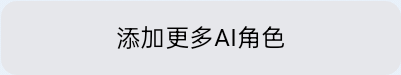
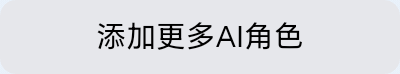
fix(swan): 回归第三轮修复——顶Tab换选中态锚/搜索入口适配/OCR容错
- _TOP_TAB_ANCHORS 五键换 *_SEL 选中态图(Tab内容布局改版不再牵连导航断言),5常量登记+PNG入库(草稿)
- search(entry=home) 适配新构建:搜索条在推荐Tab,OCR'跨平台搜索音乐'兜底
- select_device OCR l/I/1 归一化容错(实测 M300MKII→M300MKIl)
- 3张内容锚重截覆盖转正(AI入口/可视音箱提示/电台搜索条,全1.0)

Changed region(s): [[0.24, 0.2973, 0.78, 0.6757]]

diff --git a/utils/aw/business/swan.py b/utils/aw/business/swan.py
@@ -16,15 +16,18 @@ from image.image_name_mapping import (
     SWAN_DEVICE_SHEET_CHECKED,
     SWAN_DEVICE_SHEET_TITLE,
     SWAN_FAVORITE_PLAY_ALL,
-    SWAN_HOME_AI_ADD_ROLE,
     SWAN_HOME_MUSIC_SEARCH_BAR,
     SWAN_HOME_RADIO_SEARCH_BAR,
     SWAN_HOME_TAB_AI,
+    SWAN_HOME_TAB_AI_SEL,
     SWAN_HOME_TAB_MUSIC,
+    SWAN_HOME_TAB_MUSIC_SEL,
     SWAN_HOME_TAB_RADIO,
+    SWAN_HOME_TAB_RADIO_SEL,
     SWAN_HOME_TAB_RECOMMEND,
+    SWAN_HOME_TAB_RECOMMEND_SEL,
     SWAN_HOME_TAB_VISION,
-    SWAN_HOME_VISION_UNBOUND_HINT,
+    SWAN_HOME_TAB_VISION_SEL,
     SWAN_HISTORY_TOPBAR,
     SWAN_ME_FAVORITES_ROW,
     SWAN_PD_FAV_OFF,
@@ -323,12 +326,19 @@ class SwanBusiness(CommonBusinessMixin, FlutterBaseAW):
     # 设备页卡片：设备名行到状态行允许的最大纵向跨度（720x1600 口径，待真机校准）
     _CARD_BODY_SPAN = 300
 
+    # OCR 设备名易混字符归一化映射（verify R2 实测：「HiVi M300MKII」被
+    # 读成「HiVi M300MKIl」——罗马数字 II 与小写 l 同形，name in text
+    # 精确匹配失败）。兜底比对时把两侧 l/I/1 统一映射到 1 再匹配。
+    _OCR_CONFUSABLE_TRANS = str.maketrans({"l": "1", "I": "1", "1": "1"})
+
     _TIME_RE = re.compile(r"(\d{1,2}):(\d{2})")
 
     def select_device(self, name: str, via: str = "card") -> None:
         """切换输出设备（A12，回归用例 11-12）。
 
-        via="card"：设备页 OCR 定位目标设备名所在卡片，点卡片状态行
+        via="card"：设备页 OCR 定位目标设备名所在卡片（设备名精确包含
+        优先，失配时两侧做 l/I/1 易混字符归一化兜底再匹配，见
+        _OCR_CONFUSABLE_TRANS 注），点卡片状态行
         （「连接良好」行）。⚠ 不点设备名本身——知识库实测设备名节点是
         设置入口（wifi_device_settings_<UUID>），内含删除设备风险。
         收尾断言卡片选中态 [图]。
@@ -343,7 +353,22 @@ class SwanBusiness(CommonBusinessMixin, FlutterBaseAW):
         assert via in ("card", "player"), "via 仅支持 card / player"
         if via == "card":
             items = self.ocr_scan_page()
+            # 设备名比对：优先 OCR 文本精确包含；失配时两侧做 l/I/1 易混
+            # 字符归一化兜底（实测案例：OCR 把「HiVi M300MKII」读成
+            # 「HiVi M300MKIl」，II→Il，「M300MKII」归一化为「M300MK11」
+            # 后命中）。状态行「连接良好」定位逻辑不受归一化影响。
             name_item = next((i for i in items if name in i["text"]), None)
+            if name_item is None:
+                norm_name = name.translate(self._OCR_CONFUSABLE_TRANS)
+                name_item = next(
+                    (i for i in items
+                     if norm_name in i["text"].translate(self._OCR_CONFUSABLE_TRANS)),
+                    None,
+                )
+                if name_item is not None:
+                    logger.info(
+                        "select_device: 设备名 %r 精确匹配失败，"
+                        "l/I/1 归一化后命中 OCR 文本 %r", name, name_item["text"])
             assert name_item is not None, f"设备页 OCR 未找到设备名 {name!r}"
             status_item = next(
                 (i for i in items
@@ -673,13 +698,17 @@ class SwanBusiness(CommonBusinessMixin, FlutterBaseAW):
         "电台": SWAN_HOME_TAB_RADIO,
     }
 
-    # 顶 Tab 生效后的页面锚点（A22，均已转正图；可视音箱为未绑定态锚点，
-    # rig 未绑定可视音箱时稳定，绑定后需换锚点）
+    # 顶 Tab 选中态锚点（verify R2 换锚：切换后统一断言「该 Tab 处于选中
+    # 态」，不再依赖各 Tab 内容布局——新构建音乐 Tab 改歌单流后原「音乐
+    # 搜索条」内容锚点已失效，且内容锚点各页一个样、选中态高亮图跨机更
+    # 稳健。5 张选中态图为草稿，verify 转正后 image_name_mapping 登记处
+    # 改正式路径）
     _TOP_TAB_ANCHORS = {
-        "音乐": SWAN_HOME_MUSIC_SEARCH_BAR,
-        "AI": SWAN_HOME_AI_ADD_ROLE,
-        "可视音箱": SWAN_HOME_VISION_UNBOUND_HINT,
-        "电台": SWAN_HOME_RADIO_SEARCH_BAR,
+        "推荐": SWAN_HOME_TAB_RECOMMEND_SEL,
+        "音乐": SWAN_HOME_TAB_MUSIC_SEL,
+        "AI": SWAN_HOME_TAB_AI_SEL,
+        "可视音箱": SWAN_HOME_TAB_VISION_SEL,
+        "电台": SWAN_HOME_TAB_RADIO_SEL,
     }
 
     def _home_anchor_visible(self, timeout: float = 1.0) -> bool:
@@ -755,8 +784,8 @@ class SwanBusiness(CommonBusinessMixin, FlutterBaseAW):
         目标 Tab 的未选中态图不可见即视为已停在该 Tab（选中态图标不匹配
         未选中态模板，同 tests/flutter/swan_regression_common.py
         _stay_on_recommend_tab 的判定口径）。
-        到位断言：音乐/AI/可视音箱/电台 用各自页面锚点 [图]；推荐 用
-        「其余 4 个未选中态 Tab 图任一可见」——推荐页两种布局轮换下均稳定。
+        到位断言：目标 Tab 选中态图 [图]（verify R2 换锚，五 Tab 同一口径，
+        不依赖各 Tab 内容布局，见 _TOP_TAB_ANCHORS 注）。
         """
         template = self._TOP_TAB_TEMPLATES.get(name)
         if template is None:
@@ -768,15 +797,6 @@ class SwanBusiness(CommonBusinessMixin, FlutterBaseAW):
             self.click_image(template, timeout=5)
         else:
             logger.info("go_top_tab: 顶 Tab「%s」未选中态图不可见，视为已停在该 Tab", name)
-        if name == "推荐":
-            deadline = time.monotonic() + timeout
-            while time.monotonic() < deadline:
-                for tpl in (SWAN_HOME_TAB_MUSIC, SWAN_HOME_TAB_RADIO,
-                            SWAN_HOME_TAB_AI, SWAN_HOME_TAB_VISION):
-                    if self.find_image(tpl, timeout=2) is not None:
-                        return
-                self.sleep(0.5)
-            assert False, f"切顶 Tab「推荐」后 {timeout}s 内未见其余顶 Tab 未选中态图"
         self.image_exists(self._TOP_TAB_ANCHORS[name], timeout=timeout)
 
     def open_home_card(self, name: str, timeout: float = 15.0) -> None:
@@ -1036,18 +1056,26 @@ class SwanBusiness(CommonBusinessMixin, FlutterBaseAW):
     # （adb 输入限制，中文待 IME 方案，属框架层待用户决策）。
     # =================================================================
 
-    # 搜索入口 -> 搜索条图（均已转正；功能地图 8 处入口中仅音乐/电台两处
-    # 真机验证过，平台域入口待 explorer 验证后扩展）
+    # 搜索入口 -> 搜索条图（均已转正；功能地图 8 处入口中仅推荐/电台两处
+    # 真机验证过，平台域入口待 explorer 验证后扩展。home 条 PNG 文件名
+    # 沿用历史「音乐Tab_搜索条」，物理内容已同名重截为推荐 Tab 搜索条，
+    # 见 image_name_mapping.py 注）
     _SEARCH_ENTRY_BARS = {
-        "home": SWAN_HOME_MUSIC_SEARCH_BAR,    # 音乐 Tab「跨平台搜索音乐」
+        "home": SWAN_HOME_MUSIC_SEARCH_BAR,    # 首页推荐 Tab「跨平台搜索音乐」
         "radio": SWAN_HOME_RADIO_SEARCH_BAR,   # 电台 Tab「搜索电台」
     }
 
     def search(self, keyword: str, entry: str = "home", timeout: float = 15.0) -> None:
         """全域搜索（A33，回归用例69-72前半）。
 
-        entry="home"/"radio" 对应音乐/电台 Tab 搜索条 [图]（已验证的两处
-        入口）。流程：顶 Tab 切换 -> 搜索条 [图] 进搜索输入页 -> OCR hint
+        entry="home"/"radio" 对应推荐/电台 Tab 搜索条（已验证的两处入口）。
+        新构建（verify R2 拍板口径）：音乐 Tab 已改为歌单流、搜索条回归
+        首页默认推荐 Tab，entry="home" 跟随 App 现状切推荐 Tab 后点搜索条
+        （非语义变更；原「go_top_tab("音乐") + 音乐 Tab 搜索条」链路废弃）。
+        推荐 Tab 有完整/紧凑两种服务端布局轮换（知识库 swan_首页），紧凑
+        布局下搜索条图可能不可见，此时用 OCR hint「跨平台搜索音乐」兜底
+        定位。
+        流程：顶 Tab 切换 -> 搜索条进搜索输入页 -> OCR hint
         「搜索歌曲或艺术家等」定位输入框并点击聚焦 -> adb 输入关键词 ->
         搜索按钮 [图] 提交（用图不用 OCR 顶栏「搜索」，规避与自定义 T9
         键盘「搜索」键同名歧义，见知识库搜索 flow 风险注）。
@@ -1059,8 +1087,16 @@ class SwanBusiness(CommonBusinessMixin, FlutterBaseAW):
             raise ValueError(
                 f"搜索入口仅支持 {sorted(self._SEARCH_ENTRY_BARS)}"
                 f"（平台域入口 KB 未验证，暂不支持），收到 {entry!r}")
-        self.go_top_tab("音乐" if entry == "home" else "电台")
-        self.click_image(bar, timeout=10)
+        if entry == "home":
+            self.go_top_tab("推荐")   # 新构建：搜索条在推荐 Tab，音乐 Tab 已改歌单流
+            if self.find_image(bar, timeout=3) is not None:
+                self.click_image(bar, timeout=10)
+            else:
+                # 紧凑布局轮换下搜索条图不可见：OCR hint 文案兜底定位
+                self.click_text("跨平台搜索音乐", timeout=10)
+        else:
+            self.go_top_tab("电台")
+            self.click_image(bar, timeout=10)
         self.text_exists("搜索歌曲或艺术家等", timeout=timeout)   # 搜索输入页生效
         self.click_text("搜索歌曲或艺术家等", timeout=5)          # 点击输入框聚焦
         self.input_text(keyword)

diff --git a/image/image_name_mapping.py b/image/image_name_mapping.py
@@ -156,6 +156,9 @@ SWAN_HOME_TAB_AI = image_path("swan_首页_AITab按钮.png", platform="flutter")
 SWAN_HOME_TAB_VISION = image_path("swan_首页_可视音箱Tab按钮.png", platform="flutter")
 
 # --- 首页各顶 Tab 内容区元素 ---
+# ⚠ SWAN_HOME_MUSIC_SEARCH_BAR 文件名沿用历史（原音乐 Tab 搜索条）；
+# verify R2 起其 PNG 已同名重截为推荐 Tab 完整布局的搜索条（新构建音乐
+# Tab 改歌单流，搜索条回归推荐 Tab），常量名不改、语义见 swan.py search()
 SWAN_HOME_MUSIC_SEARCH_BAR = image_path("swan_首页音乐Tab_搜索条.png", platform="flutter")
 SWAN_HOME_RADIO_SEARCH_BAR = image_path("swan_首页电台Tab_搜索条.png", platform="flutter")
 SWAN_HOME_AI_ADD_ROLE = image_path("swan_首页AITab_添加角色入口.png", platform="flutter")
@@ -330,6 +333,23 @@ SWAN_PLAYER_FAV_BTN = image_path("swan_播放页_收藏按钮.png", platform="fl
 SWAN_PD_ROW_FAV_BTN = image_path("swan_歌单详情页_歌曲行收藏图标.png", platform="flutter", draft=True)  # 歌单详情页歌曲行收藏图标（source="playlist_page"）
 
 
+# =====================================================================
+# Swan (Flutter) 回归第三轮修复·首页顶 Tab 选中态锚点（verify R2）
+# 2026-09-24 aw-codegen 按 aw-verify 第二轮报告登记，PNG 由 aw-element
+# 并行截取（A 组 5 张新名）。go_top_tab 到位断言统一换锚为「目标 Tab
+# 选中态」图：切换后断言该 Tab 处于选中态，不再依赖各 Tab 内容布局
+# （新构建音乐 Tab 改歌单流后原「音乐搜索条」内容锚点已失效），选中态
+# 高亮样式跨机也更稳健。verify 转正后本段 draft=True 改正式路径。
+# =====================================================================
+
+# --- 首页顶 Tab 选中态（go_top_tab 到位锚点；截选中态高亮样式，勿含邻 Tab 与内容区） ---
+SWAN_HOME_TAB_RECOMMEND_SEL = image_path("swan_首页_推荐Tab选中态.png", platform="flutter", draft=True)
+SWAN_HOME_TAB_MUSIC_SEL = image_path("swan_首页_音乐Tab选中态.png", platform="flutter", draft=True)
+SWAN_HOME_TAB_RADIO_SEL = image_path("swan_首页_电台Tab选中态.png", platform="flutter", draft=True)
+SWAN_HOME_TAB_AI_SEL = image_path("swan_首页_AITab选中态.png", platform="flutter", draft=True)
+SWAN_HOME_TAB_VISION_SEL = image_path("swan_首页_可视音箱Tab选中态.png", platform="flutter", draft=True)
+
+
 __all__ = [
     "ANDROID_DRAFT_IMAGE_DIR",
     "ANDROID_IMAGE_DIR",
@@ -362,6 +382,11 @@ __all__ = [
     "SWAN_HOME_TAB_RADIO",
     "SWAN_HOME_TAB_AI",
     "SWAN_HOME_TAB_VISION",
+    "SWAN_HOME_TAB_RECOMMEND_SEL",
+    "SWAN_HOME_TAB_MUSIC_SEL",
+    "SWAN_HOME_TAB_RADIO_SEL",
+    "SWAN_HOME_TAB_AI_SEL",
+    "SWAN_HOME_TAB_VISION_SEL",
     "SWAN_HOME_MUSIC_SEARCH_BAR",
     "SWAN_HOME_RADIO_SEARCH_BAR",
     "SWAN_HOME_AI_ADD_ROLE",
